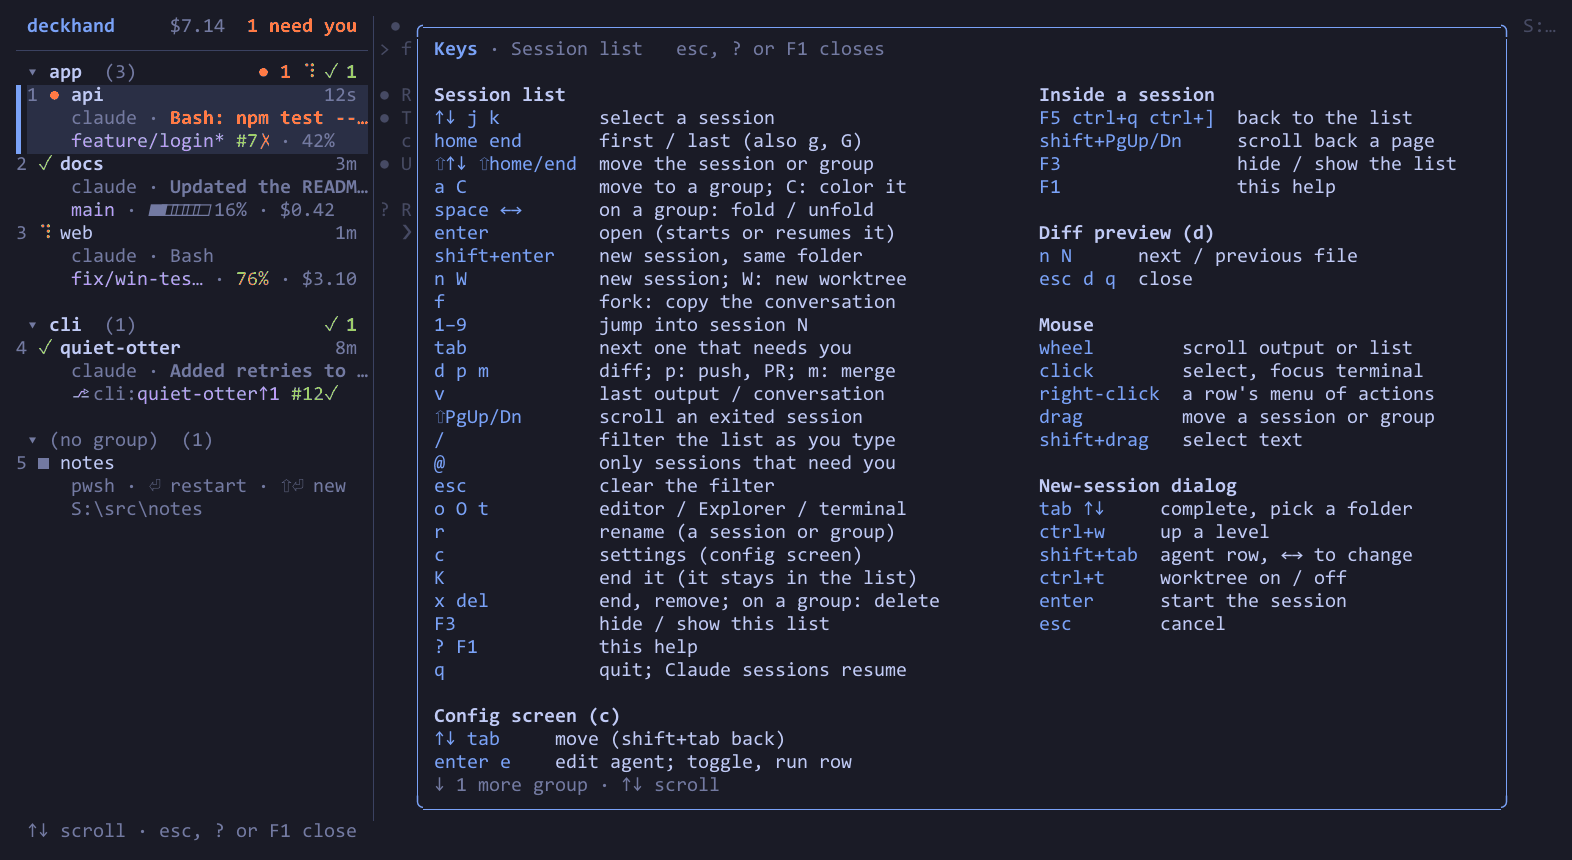
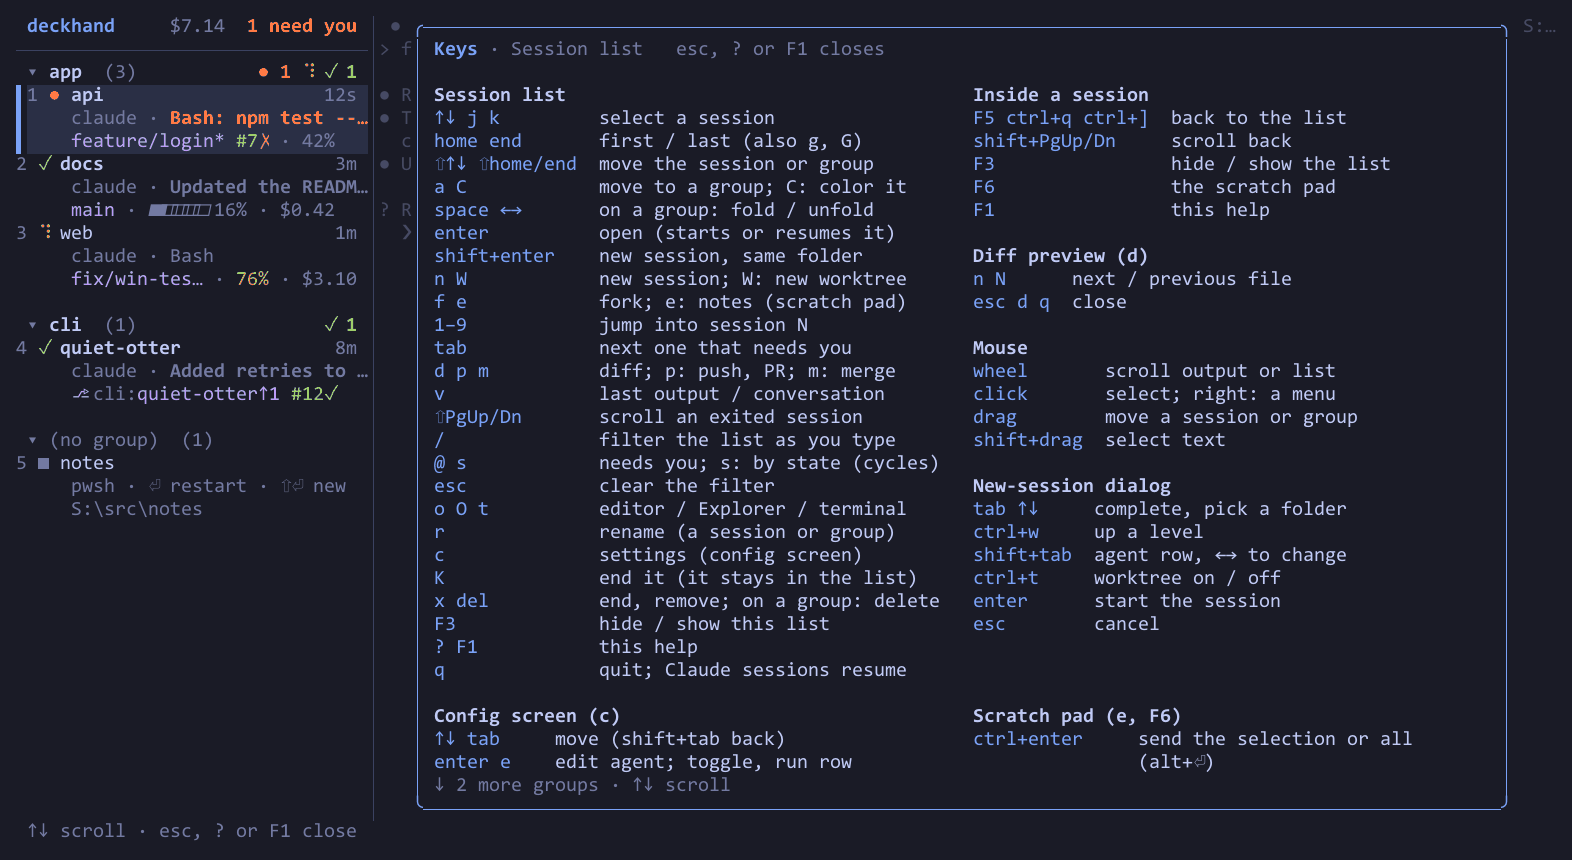
Fold right-click into the click help row, so the help's first page fits
The combined branch's Mouse group widened its key column for
right-click, which wrapped three descriptions and pushed the
New-session dialog off the first page (TestE2EHelp). Regenerate
help.png.

diff --git a/help.go b/help.go
@@ -105,8 +105,7 @@ var helpGroups = []helpGroup{
 	}},
 	{helpMouse, []helpEntry{
 		{keys: "wheel", desc: "scroll output or list"},
-		{keys: "click", desc: "select, focus terminal"},
-		{keys: "right-click", desc: "a row's menu of actions"},
+		{keys: "click", desc: "select; right: a menu"},
 		{keys: "drag", desc: "move a session or group"},
 		{keys: "shift+drag", desc: "select text"},
 	}},
